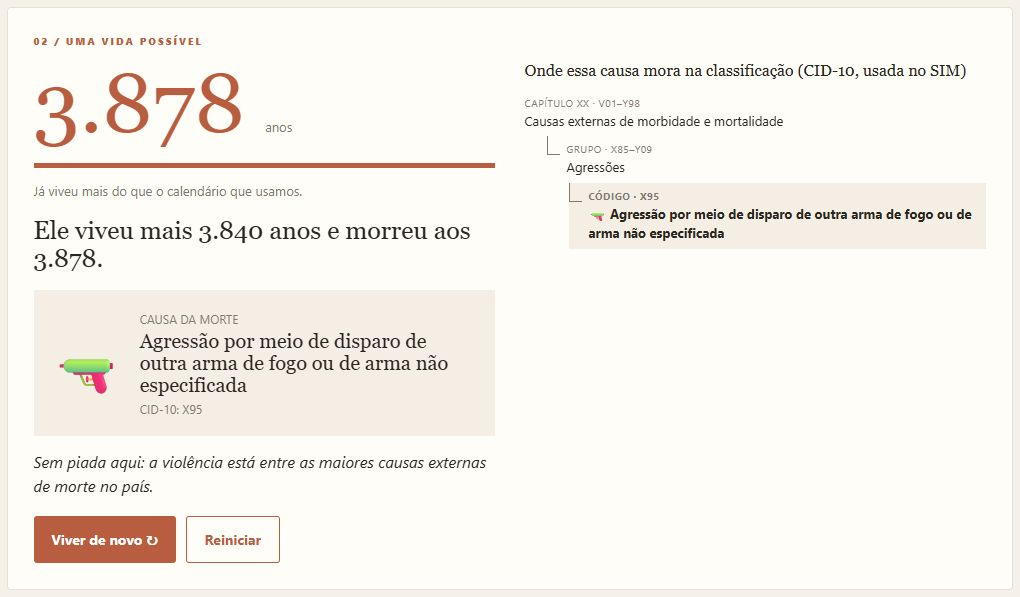
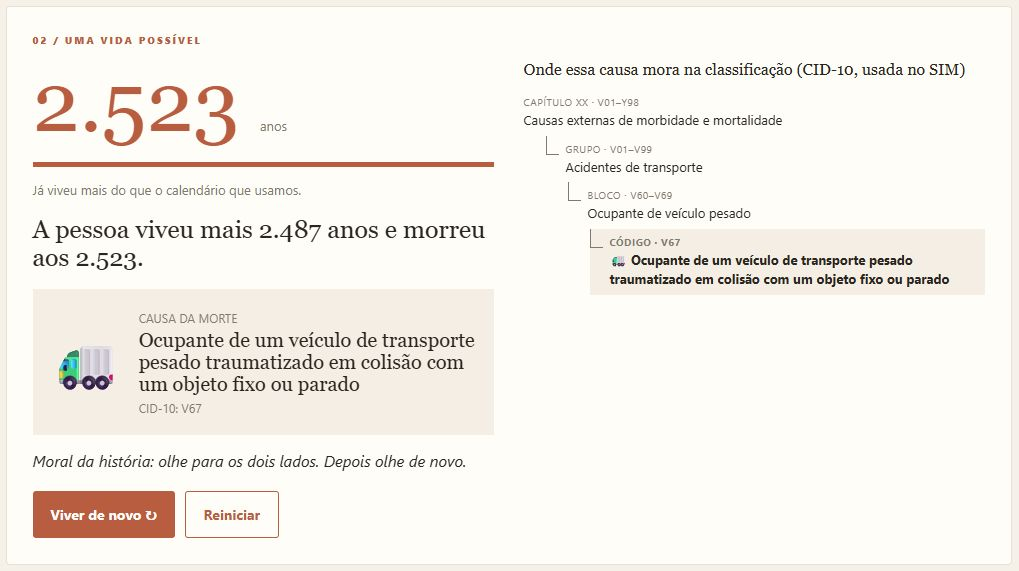
Todos
I included the calculation for all (sexes, ages, states).

diff --git a/index.html b/index.html
@@ -557,6 +557,10 @@
 				animation: none !important
 			}
 		}
+
+		input[type=range]:disabled {
+			opacity: .4
+		}
 	</style>
 </head>
 
@@ -577,11 +581,16 @@
 			<p class="eyebrow">01 / PERFIL</p>
 			<p class="instructions">
 				Defina uma idade, sexo e estado para descobrir quanto tempo essa pessoa poderia viver nesse mundo.
+				Escolha "Todos" (ou marque "Todas as idades") para usar os dados de todo o Brasil: uma pessoa média.
 			</p>
 			<div class="form">
-				<div><label for="age">Idade biológica: <output id="ageOut">30</output> anos</label><input id="age"
-						type="range" min="0" max="90" value="30"></div>
+				<div><label for="age">Idade biológica: <output id="ageOut">36 anos</output></label><input id="age"
+						type="range" min="0" max="90" value="36">
+					<label class="chk" style="margin-top:8px"><input type="checkbox" id="allAges"> Todas as
+						idades</label>
+				</div>
 				<div><label for="sex">Sexo</label><select id="sex">
+						<option value="ALL" selected>Todos</option>
 						<option value="F">Feminino</option>
 						<option value="M">Masculino</option>
 					</select></div>
@@ -709,6 +718,10 @@
 				<p>A causa é sorteada com peso proporcional ao número de óbitos de cada causa naquela idade biológica,
 					sexo e estado. O contador de idade sobe, mas só no calendário: o risco continua o da idade
 					biológica escolhida.</p>
+				<p>Ao escolher "Todos" em sexo ou estado, são somados óbitos e população de todas as categorias. Com
+					"Todas as idades", a taxa é a taxa bruta: todas as mortes divididas por toda a população, o que um
+					cálculo ingênuo faria para um "brasileiro médio". Nesse caso o contador começa na idade média da
+					população, mas o risco continua o mesmo ano após ano.</p>
 			</details>
 			<details>
 				<summary>Por que alguém viveria tanto?</summary>
@@ -724,8 +737,7 @@
 					as diferenças de exposição. "Congelar" o corpo (e o risco) numa certa idade é uma escolha do
 					experimento; outra seria continuar envelhecendo, com o risco mudando a cada aniversário. Também, é
 					improvável que a medicina avance tanto em causas internas e não também em causas externas. Mas isto
-					é
-					um experimento mental, não uma previsão. Ainda assim, é um experimento divertido, até para ver o
+					é um experimento mental, não uma previsão. Ainda assim, é um experimento divertido, até para ver o
 					potencial de tal empreitada.</p>
 			</details>
 			<details>
@@ -862,19 +874,40 @@
 
 		/* Taxa da idade escolhida. Com suavização, agrupa ±2 anos (óbitos somados / população somada).
 		   Se a janela não tiver mortes, ela é ampliada até encontrar. A idade 90 (grupo "90+") não é misturada com as demais. */
-		function buildProfile(sex, uf, start, smooth) {
+		function buildProfile(sex, uf, startArg, smooth) {
+			/* "ALL" em sexo/estado soma todas as categorias; startArg === null soma todas as idades (taxa bruta) */
+			const okS = r => (sex === "ALL" || r.sex === sex) && (uf === "ALL" || r.uf === uf);
 			const d = Array(91).fill(0), pop = Array(91).fill(0);
-			for (const r of totalRows) if (r.sex === sex && r.uf === uf) { d[r.age] += r.deaths; pop[r.age] += r.population; }
-			const r0 = (smooth && start < 90) ? 2 : 0; let r = r0, lo, hi, dd, pp;
-			for (; ; r++) {
-				lo = Math.max(0, start - r); hi = start === 90 ? 90 : Math.min(89, start + r); dd = 0; pp = 0;
-				for (let a = lo; a <= hi; a++) { dd += d[a]; pp += pop[a]; }
-				if (dd > 0 || r >= 90) break;
+			for (const r of totalRows) if (okS(r)) { d[r.age] += r.deaths; pop[r.age] += r.population; }
+			const all = startArg === null;
+			let start, r0 = 0, r = 0, lo, hi, dd, pp;
+			if (all) {
+				lo = 0; hi = 90; dd = d.reduce((s, x) => s + x, 0); pp = pop.reduce((s, x) => s + x, 0);
+				start = Math.round(pop.reduce((s, x, a) => s + x * a, 0) / pp); /* idade média da população */
+			} else {
+				start = startArg; r0 = (smooth && start < 90) ? 2 : 0; r = r0;
+				for (; ; r++) {
+					lo = Math.max(0, start - r); hi = start === 90 ? 90 : Math.min(89, start + r); dd = 0; pp = 0;
+					for (let a = lo; a <= hi; a++) { dd += d[a]; pp += pop[a]; }
+					if (dd > 0 || r >= 90) break;
+				}
 			}
 			const m = pp > 0 ? dd / pp : 0, cm = new Map();
-			for (const c of causeRows) if (c.sex === sex && c.uf === uf && c.age >= lo && c.age <= hi) cm.set(c.cause, (cm.get(c.cause) || 0) + c.deaths);
+			for (const c of causeRows) if (okS(c) && c.age >= lo && c.age <= hi) cm.set(c.cause, (cm.get(c.cause) || 0) + c.deaths);
 			const codes = [...cm.keys()], w = codes.map(c => cm.get(c));
-			return { sex, uf, start, m, p: 1 - Math.exp(-m), lo, hi, r, r0, tab: { codes, w, sum: w.reduce((s, x) => s + x, 0) } };
+			return { sex, uf, start, all, m, p: 1 - Math.exp(-m), lo, hi, r, r0, tab: { codes, w, sum: w.reduce((s, x) => s + x, 0) } };
+		}
+		/* descrição do perfil: curta (imagem) ou completa (nota) */
+		function profileLabel(short) {
+			if (P.sex === "ALL" && P.uf === "ALL" && P.all) return short ? `pessoa média do Brasil, ${P.start} anos` : `pessoa média do Brasil (começa aos ${P.start} anos, a idade média da população)`;
+			const who = P.sex === "F" ? "mulher" : P.sex === "M" ? "homem" : "pessoa";
+			const age = P.all ? (short ? `${P.start} anos (idade média)` : `idade média da população (${P.start} anos)`) : `${P.start} anos`;
+			return `${who}, ${age}, ${P.uf === "ALL" ? "Brasil" : (UF_NAMES[P.uf] || P.uf)}`;
+		}
+		function whoText() {
+			if (P.sex === "ALL" && P.uf === "ALL" && P.all) return "uma pessoa média brasileira";
+			const noun = P.sex === "F" ? "uma mulher" : P.sex === "M" ? "um homem" : "uma pessoa";
+			return `${noun} ${P.all ? `com a idade média da população (${P.start} anos)` : `de ${P.start} anos`} (${P.uf === "ALL" ? "Brasil" : P.uf})`;
 		}
 		function pickCause() {
 			const t = P.tab; if (!t.codes.length) return "";
@@ -925,8 +958,8 @@
 				totalRows = norm(parseCSV(await a.text()), false); causeRows = norm(parseCSV(await b.text()), true);
 				if (c && c.ok) parseCSV(await c.text()).forEach(r => CID.set(r.code.toUpperCase(), r.name));
 				const ufs = [...new Set(totalRows.map(r => r.uf))].sort();
-				$("uf").innerHTML = ufs.map(u => `<option value="${u}">${u} — ${UF_NAMES[u] || u}</option>`).join("");
-				if (ufs.includes("SP")) $("uf").value = "SP";
+				$("uf").innerHTML = '<option value="ALL">Todos os estados (Brasil)</option>' + ufs.map(u => `<option value="${u}">${u} — ${UF_NAMES[u] || u}</option>`).join("");
+				if (ufs.includes("ALL")) $("uf").value = "ALL";
 				$("status").textContent = `Dados carregados: ${fmt(totalRows.length)} perfis e ${fmt(causeRows.length)} linhas por causa.`;
 				$("go").disabled = false;
 			} catch (e) {
@@ -941,7 +974,7 @@
 		}
 
 		function startLife() {
-			const start = Number($("age").value), mine = ++token;
+			const start = P.start, mine = ++token;
 			const r = lifeOnce(start); last = { ...r, start };
 			$("lifePanel").classList.remove("hidden"); $("result").classList.add("hidden"); $("again").disabled = true;
 			$("tree").innerHTML = '<span class="muted">A árvore aparece quando a vida acabar.</span>';
@@ -964,7 +997,7 @@
 		}
 
 		function finishLife() {
-			const { age, code, start } = last, ela = P.sex === "F" ? "Ela" : "Ele";
+			const { age, code, start } = last, ela = P.sex === "F" ? "Ela" : P.sex === "M" ? "Ele" : "A pessoa";
 			$("again").disabled = false;
 			if (age === null) {
 				$("counter").textContent = "∞"; $("verdict").textContent = "Imortal (por falta de dados)";
@@ -1019,12 +1052,12 @@
 			$("rareNote").textContent = (unseen ? `Das ${possible} causas possíveis neste perfil, ${unseen} não apareceram nenhuma vez nestas ${fmt(n)} vidas. ` : `Todas as ${possible} causas possíveis apareceram pelo menos uma vez. `) + `Abaixo, as mais raras entre as que apareceram.` + (ties > 8 ? ` Mais ${ties - 8} causas empatam com ${items[0].k} ${items[0].k === 1 ? "morte" : "mortes"}.` : "");
 			if (rare.some(e => isSelf(e.c))) selfInTop = true;
 			const risk = P.p;
-			$("profileNote").textContent = `Perfil: ${P.sex === "F" ? "mulher" : "homem"}, ${start} anos, ${UF_NAMES[P.uf] || P.uf}. Risco de morrer por causa externa no próximo ano: ${fmt(risk * 100, 3)}%${risk > 0 ? ` (1 em ${fmt(1 / risk)})` : ""}.` + (P.r > P.r0 ? ` Sem mortes numa janela menor, a taxa usa as idades ${P.lo}–${P.hi}.` : P.lo !== P.hi ? ` Taxa suavizada com as idades ${P.lo}–${P.hi}.` : "");
+			$("profileNote").textContent = `Perfil: ${profileLabel(false)}. Risco de morrer por causa externa no próximo ano: ${fmt(risk * 100, 3)}%${risk > 0 ? ` (1 em ${fmt(1 / risk)})` : ""}.` + (P.r > P.r0 ? ` Sem mortes numa janela menor, a taxa usa as idades ${P.lo}–${P.hi}.` : P.lo !== P.hi ? ` Taxa suavizada com as idades ${P.lo}–${P.hi}.` : "");
 		}
 
 		function runAll() {
-			const start = Number($("age").value), sex = $("sex").value, uf = $("uf").value, n = Number($("runs").value);
-			P = buildProfile(sex, uf, start, $("smooth").checked); many = simulateMany(start, n);
+			const sex = $("sex").value, uf = $("uf").value, n = Number($("runs").value);
+			P = buildProfile(sex, uf, $("allAges").checked ? null : Number($("age").value), $("smooth").checked); many = simulateMany(P.start, n);
 			$("manyPanel").classList.add("hidden"); $("sharePanel").classList.add("hidden");
 			startLife();
 		}
@@ -1032,7 +1065,7 @@
 
 		/* ---------- Compartilhar ---------- */
 		function shareText() {
-			const who = `${P.sex === "F" ? "uma mulher" : "um homem"} de ${last.start} anos (${P.uf})`;
+			const who = whoText();
 			return `Sorteei uma vida possível num mundo sem doenças: ${who} viveria até os ${fmt(last.age)} anos e morreria de "${nameOf(last.code)}" ${emojiOf(last.code)}. E você?`;
 		}
 		function setupShare() {
@@ -1052,7 +1085,7 @@
 			x.fillStyle = "#f5f1e9"; x.fillRect(0, 0, W, H); x.strokeStyle = "#e8e0d4"; x.lineWidth = 4; x.strokeRect(30, 30, W - 60, H - 60);
 			x.textAlign = "center"; x.fillStyle = "#29251f"; x.font = "800 34px system-ui,sans-serif"; x.fillText("VIDA", W / 2 - 52, 120); x.fillStyle = "#b85d3f"; x.fillText("LONGA", W / 2 + 62, 120);
 			x.fillStyle = "#81796e"; x.font = "30px system-ui,sans-serif";
-			x.fillText(`Perfil: ${P.sex === "F" ? "mulher" : "homem"}, ${last.start} anos, ${UF_NAMES[P.uf] || P.uf}`, W / 2, 190);
+			x.fillText(`Perfil: ${profileLabel(true)}`, W / 2, 190);
 			x.fillText("Uma vida possível, sorteada ao acaso", W / 2, 265); x.fillText("num mundo sem doenças, duraria até", W / 2, 310);
 			x.fillStyle = "#b85d3f"; x.font = "230px Georgia,serif"; x.fillText(last.age === null ? "∞" : fmt(last.age), W / 2, 500);
 			x.fillStyle = "#81796e"; x.font = "34px system-ui,sans-serif"; x.fillText("anos", W / 2, 590);
@@ -1077,10 +1110,11 @@
 			catch (e) { if (e.name !== "AbortError") download(); }
 		};
 
-		$("age").addEventListener("input", () => $("ageOut").textContent = $("age").value);
+		function syncAge() { const all = $("allAges").checked; $("age").disabled = all; $("ageOut").textContent = all ? "todas" : $("age").value + " anos"; }
+		$("age").addEventListener("input", syncAge); $("allAges").addEventListener("change", syncAge);
 		$("go").onclick = () => { try { runAll(); } catch (e) { $("status").textContent = e.message; $("status").classList.add("error"); } };
 		$("again").onclick = again;
-		$("reset").onclick = () => { resetResults(); $("age").value = 30; $("ageOut").textContent = "30"; $("sex").value = "F"; $("runs").value = "10000"; $("smooth").checked = true; if ([...$("uf").options].some(o => o.value === "SP")) $("uf").value = "SP"; window.scrollTo({ top: 0, behavior: "smooth" }); };
+		$("reset").onclick = () => { resetResults(); $("age").value = 36; $("allAges").checked = false; syncAge(); $("sex").value = "ALL"; $("runs").value = "10000"; $("smooth").checked = true; $("uf").value = "ALL"; window.scrollTo({ top: 0, behavior: "smooth" }); };
 		$("repo").href = REPO_URL;
 		loadData();
 	</script>

diff --git a/README.md b/README.md
@@ -2,7 +2,7 @@
 
 **How long would our lives be in a world without diseases or aging?**
 
-What if transhumanism won (even more than it already has) and we found cures for every disease and for aging itself? Without internal causes of death, only external ones would remain: falls, drownings, violence, and chance. Life expectancy could increase from less than a century today to centuries or even millennia. Vida Longa generates possible lifespans for a chosen biological age and selected profile based on external causes of death.
+What if transhumanism won (even more than it already has) and we found cures for every disease and for aging itself? Without internal causes of death, only external ones would remain: falls, drownings, violence, and chance. Life expectancy could increase from less than a century today to centuries or even millennia. Vida Longa generates possible lifespans for a chosen biological age and selected profile based on external causes of death. It is like to take a snapshot of mortality in Brazil in 2024 and ask what happens if that snapshot becomes a permanent property of humanity.
 
 Does this kind of extrapolation or experiment make sense? Perhaps not very much, since the end of disease and aging would probably bring about a change in human conditions so profound that extrapolating from the previous condition would not be realistic. But it is still a fun experiment and can provide a sense of the potential that could be involved in such an endeavor.
 
